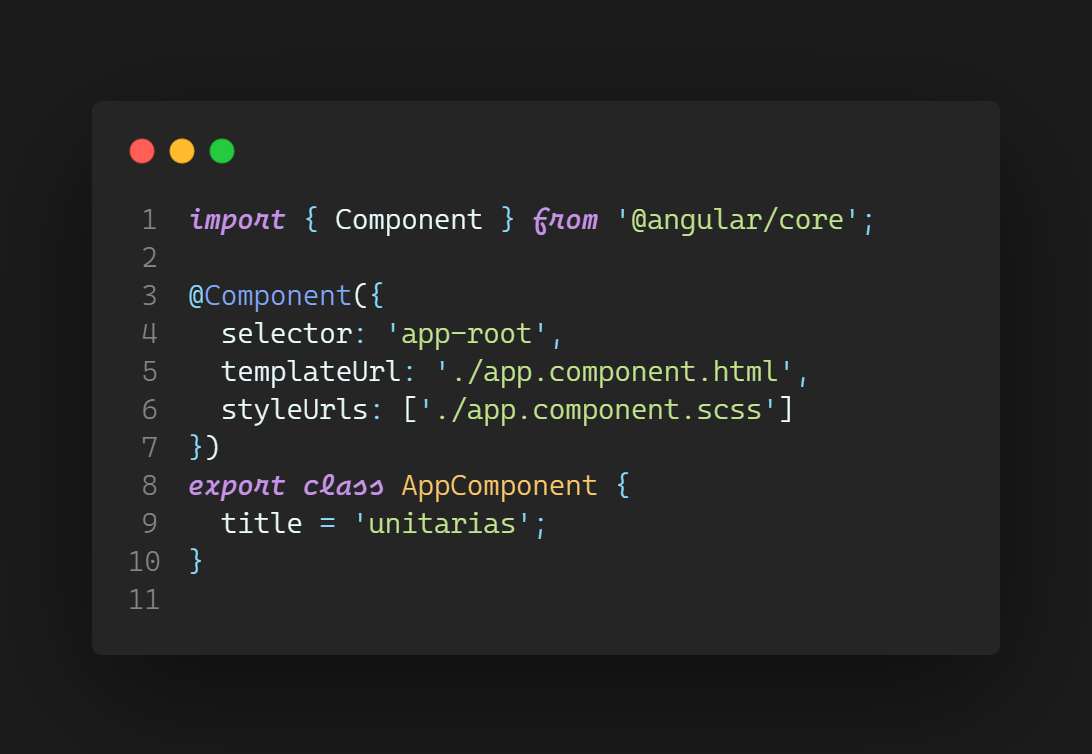
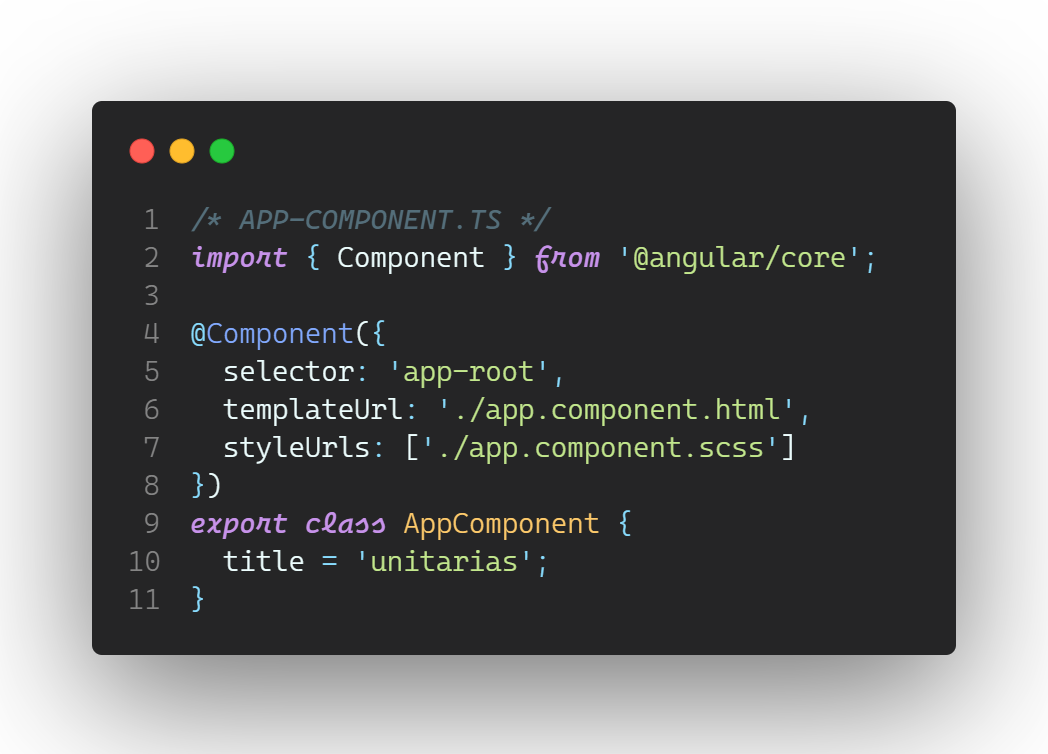
agregando pruebas unitarias

diff --git a/componentes/ANGULAR/ang_002.html b/componentes/ANGULAR/ang_002.html
@@ -152,16 +152,16 @@
                 </div>
             </div>
             <div class="col-md-4">
-                <p class="text-light fs-25 fw-6 mb-0">Función <span class="fw-3 font-italic">"describe()"</span></p>
+                <p class="text-light fs-25 fw-6 mb-0">Función <span class="fw-3 font-italic">"describe('', ()=>{})"</span></p>
                 <p class="text-light tituloUno fw-3">
                     La función "describe()", es la que contiene todo el area de pruebas, recibe 2 parámetros que serían la descripción que es una cadena de texto y recibe otra función que es la que contiene todo el área de pruebas.
                 </p>
 
-                <p class="text-light fs-25 fw-6 mb-0 mt-3">Función <span class="fw-3 font-italic">"beforeEach()"</span></p>
+                <p class="text-light fs-25 fw-6 mb-0 mt-3">Función <span class="fw-3 font-italic">"beforeEach(()=>{})"</span></p>
                 <p class="text-light tituloUno fw-3">
                     Esta función ejecuta todo lo que tiene dentro de si, antes de cada una de las pruebas.
                 </p>
-                <p class="text-light fs-25 fw-6 mb-0 mt-3">Función <span class="fw-3 font-italic">"beforeAll()"</span></p>
+                <p class="text-light fs-25 fw-6 mb-0 mt-3">Función <span class="fw-3 font-italic">"beforeAll(()=>{})"</span></p>
                 <p class="text-light tituloUno fw-3">
                     Esta función ejecuta todo lo que tiene dentro de si, antes de todas las pruebas.
                 </p>
@@ -170,25 +170,40 @@
         </div>
         <div class="row mt-5">
             <div class="col-md-12">
-                <p class="text-light fs-25 fw-6 mb-0">Función <span class="fw-3 font-italic">"afteEach()"</span></p>
+                <p class="text-light fs-25 fw-6 mb-0">Función <span class="fw-3 font-italic">"afteEach(()=>{})"</span></p>
                 <p class="text-light tituloUno fw-3">
                     Esta función ejecuta todo lo que tiene dentro de si, despues de cada una de las pruebas.
                 </p>
-                <p class="text-light fs-25 fw-6 mb-0 mt-3">Función <span class="fw-3 font-italic">"afteAll()"</span></p>
+                <p class="text-light fs-25 fw-6 mb-0 mt-3">Función <span class="fw-3 font-italic">"afteAll(() => {})"</span></p>
                 <p class="text-light tituloUno fw-3">
                     Esta función ejecuta todo lo que tiene dentro de si, despues de todas las pruebas.
                 </p>
+                <p class="text-light fs-25 fw-6 mb-0 mt-3">Función <span class="fw-3 font-italic">"it('' () =>{})"</span></p>
+                <p class="text-light tituloUno fw-3">
+                    Dentro de esta función en específico, se construye la evaluación.
+                </p>
+                <p class="text-light fs-25 fw-6 mb-0 mt-3">Función <span class="fw-3 font-italic">"expect()."</span></p>
+                <p class="text-light tituloUno fw-3">
+                    Esta función es la encargada de ejecutar una comparación del resultado esperado o fallido.
+                </p>
             </div>
         </div>
+    </div>
+    <div class="col-md-1"></div>
+</div>
 
+<div class="espacio"></div>
+
+<div class="row">
+    <div class="col-md-12">
         <div class="row mt-5">
             <div class="col-md-1"></div>
             <div class="col-md-10">
                 <div class="row">
-                    <div class="col-md-2">
+                    <div class="col-md-1">
                         <h2 class="titleBig text-light">3</h2>
                     </div>
-                    <div class="col-md-10">
+                    <div class="col-md-11">
                         <h3 class="subTituloPost">¿Como se prueba?</h3>
                         <p class="text-light tituloUno fw-3 mt-2">
                             Entrando en materia estos son algunos de los ejemplos aplicados a las pruebas en general:
@@ -199,7 +214,32 @@
             </div>
             <div class="col-md-1"></div>
         </div>
-
+        <div class="row mt-5">
+            <div class="col-md-4 text-center">
+                <h3 class="subTituloPost">Código</h3>
+                <p class="fw-3 font-italic text-light fs-18">
+                    app-component.html<br>
+                    app.component.ts
+                </p>
+            </div>
+            <div class="col-md-8 text-center">
+                <h3 class="subTituloPost">Prueba</h3>
+            </div>
+        </div>
+        <div class="row">
+            <div class="col-md-4 mr-0">
+                <img src="../../styles/assets/categorias/Angular/Pruebas unitarias/app-component-html.png" alt="App Component" class="img-fluid">
+                <img src="../../styles/assets/categorias/Angular/Pruebas unitarias/app-component-ts.png" alt="App Component" class="img-fluid">
+            </div>
+            <div class="col-md-8 ml-0">
+                <img src="../../styles/assets/categorias/Angular/Pruebas unitarias/app-component-spect.png" alt="App Component.spec" class="img-fluid">
+            </div>
+        </div>
+    </div>
+</div>
+<div class="row">
+    <div class="col-md-1"></div>
+    <div class="col-md-10">
         <div class="row mt-5">
             <div class="col-md-1"></div>
             <div class="col-md-10">
@@ -223,11 +263,8 @@
             </div>
             <div class="col-md-1"></div>
         </div>
-
-        
     </div>
     <div class="col-md-1"></div>
-    
 </div>
 
 

diff --git a/componentes/ANGULAR/ang_001.html b/componentes/ANGULAR/ang_001.html
@@ -62,7 +62,7 @@
                             <p id="clip-angularCli" class="d-none">npm install -g @angular/cli</p>
                             <h3 class="text-danger tituloTres font-weight-lighter fs-17 font-italic">npm install -g @angular/cli <i class="fa fa-clone cursor-p" aria-hidden="true" title="Copiar" onClick="copiarAlPortapapeles('clip-angularCli')"></i></h3>
                             <p class="text-light tituloUno font-weight-lighter fs-18 mt-1">
-                                Este es un paquete de instrucciones que se instala por medio de Node Js, que permite crear unos recursos para Angular a través de unos <a href="#angular-cli" class="text-decoration-none">comandos</a> que se ingresan en consola. 
+                                Agrega este comando a través de la consola "CMD" o terminal, este es un paquete de instrucciones que se instala por medio de Node Js, que permite crear unos recursos para Angular a través de unos <a href="#angular-cli" class="text-decoration-none">comandos</a> que se ingresan en consola. 
                             </p>
                         </div>
                     </div>
@@ -73,7 +73,7 @@
                         <div class="col-md-10">
                             <h3 class="subTituloPost mb-3 mt-5">Editores de código: </h3>
                             <p class="text-light tituloUno font-weight-lighter fs-18">
-                                Los editores no son vitales para crear el paquete inicial de Angular, pero una vez creado resulta imprescindible utilizar alguno para trabajar en nuestro desarrollo.
+                                Instala el editor de código preferido. Los editores no son vitales para crear el paquete inicial de Angular, pero una vez creado resulta imprescindible utilizar alguno para trabajar en nuestro desarrollo.
                             </p>
                             <div class="d-flex justify-content-between">
                                 <a href="https://code.visualstudio.com/download" target="_blank"> 
@@ -121,7 +121,7 @@
                     <div class="espacio"></div>
                     <div class="row mt-5">
                     <div class="col-md-12">
-                        <h3 class="subTituloPost mb-3 mt-5">Comandos con angular cli</h3>
+                        <h3 class="subTituloPost mb-3 mt-5">Comandos del angular cli</h3>
                         <div class="mt-4">
                             <p id="clip-angular-cli" class="d-none">npm install -g @angular/cli</p>
                             <h4 class="text-danger tituloTres font-weight-lighter fs-17 font-italic">npm install -g  @angular/cli <i class="fa fa-clone cursor-p" title="Copiar" aria-hidden="true" onClick="copiarAlPortapapeles('clip-angular-cli')"></i></h4>
